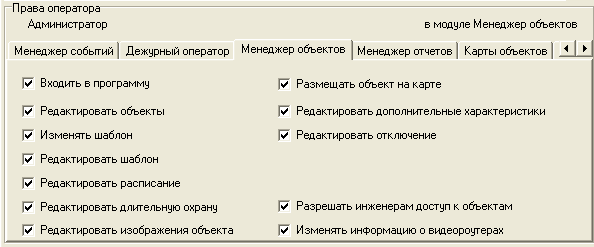
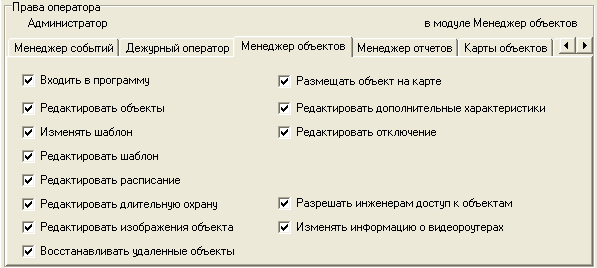
добавлена глава "Восстановление удаленного объекта" в разделе "Менеджер объектов", добавлено описание права "Восстанавливать удаленные объекты" в разделе "Менеджер персонала"

Changed region(s): [[0.0, 0.0, 1.0, 1.0], [0.4545, 0.2834, 0.9394, 0.5668], [0.4545, 0.7368, 0.8788, 0.8785]]

diff --git a/russian/05-object-manager.md b/russian/05-object-manager.md
@@ -66,6 +66,30 @@
 
 ![Список объектов: результат фильтрации сравнением «похоже на %%ик%%»][id-05-03-04]
 
+## Восстановление удаленного объекта
+
+Посмотреть карточку удаленного объекта «Центра охраны» или сформировать отчет по событиям на удаленном объекте можно, воспользовавшись функцией восстановления удаленного объекта. 
+
+Для восстановления удаленного объекта оператор «Центра охраны», наделенный соответствующим правом, должен выбрать «Восстановить удаленный объект…» пункта «Объект», представленного в меню модуля «Менеджер объектов».
+
+![ Восстановление удаленного объекта][id-05-20]
+
+В открывшемся при этом окне «Выберите объект для восстановления» отображаются удаленные ранее объекты. Для каждого из них в соответствующих полях указаны номер объекта (на момент первого удаления объекта), название и адрес объекта, номер договора, а также дата и время удаления объекта. Необходимый для восстановления объект удобно искать по данным параметрам при помощи сортировки и фильтрации объектов по заданному признаку. 
+
+![ Выбор удаленного объекта для восстановления][id-05-21]
+
+Для восстановления следует выделить объект в окне «Выберите объект для восстановления» и нажать кнопку «OK». После этого объект будет восстановлен и отобразится в списке объектов главного окна модуля.
+
+При этом номер восстанавливаемого объекта изменяется, если он совпадает с номером уже существующего объекта или раздела. Изменение номера достигается добавлением к нему определенных символов (от «A» до «F»): например, объекту под номером «314» присваивается номер «A314». Таким же образом изменяется номер какого-либо из разделов восстанавливаемого объекта, если он совпадает с номером уже существующего объекта или раздела. Номер восстановленного объекта и номера его разделов сообщаются в окне, автоматически открывающемся сразу после восстановления объекта.
+
+![ Информация о номере восстановленного объекта и его разделов][id-05-22]
+
+Необходимо заметить, что для компьютера, на котором выполняется восстановление объекта, может быть установлено ограничение на доступные номера объектов. Если номер восстанавливаемого объекта выходит за границы данного ограничения, объект будет восстановлен, однако появится сообщение, информирующее пользователя о необходимости изменить номер объекта или откорректировать ограничение на доступные номера объектов.
+
+Для объекта не восстанавливаются такие параметры, как идентификатор передатчика ТР-100 GSM III, идентификатор и ключ шифрации прибора «Юпитер». Также для восстанавливаемого объекта удаляется администратор объекта в личном кабинете и аннулируются подписки на классы событий и действия оператора, до удаления объекта доступные в личном кабинете и в приложении MyAlarm.  Кроме того, для восстанавливаемого объекта отменяются разрешения, выданные инженерам для удаленного доступа к данному объекту.
+
+Важно помнить, что необходимым условием для восстановления объекта является возможность добавить объект в базу данных «Центра охраны» в соответствии с имеющимися лицензионными ограничениями. Если в базе данных создано максимально возможное количество объектов, выводится сообщение об ошибке и процедура восстановления объекта прекращается.
+
 ## Вкладка «Объект»
 
 На вкладке «Объект» можно указать основную описательную информацию об объекте: номер, название, адрес, телефоны и так далее. 
@@ -514,3 +538,6 @@
 [id-05-17]: img/ObjMngr-17-VideoRouters.png "Вкладка «Видеороутеры»"
 [id-05-18]: img/ObjMngr-18-Support.png "Вкладка «Обслуживание»"
 [id-05-19]: img/ObjMngr-18-Support-01.png "Окно «Выдача разрешения на доступ к объекту»"
+[id-05-20]: img/ObjMngr-20-ObjectRecovery.png "Восстановление удаленного объекта"
+[id-05-21]: img/ObjMngr-21-ObjectRecovery-01.png "Выбор удаленного объекта для восстановления"
+[id-05-22]: img/ObjMngr-22-ObjectRecovery-02.png "Информация о номере восстановленного объекта и его разделов"

diff --git a/russian/07-personnel-manager.md b/russian/07-personnel-manager.md
@@ -64,6 +64,8 @@
 
 * «Редактировать изображения объекта» - разрешение на изменение изображений объекта. Данные изображения используются в приложении "Тревога в ГБР" для предоставления более полной информации об объекте.
 
+* «Восстанавливать удаленные объекты» - разрешение на восстановление удаленных объектов.
+
 * «Размещать объект на карте» - разрешение на изменение местоположения объекта на карте.
 
 * «Редактировать дополнительные характеристики» — разрешение на изменение значений дополнительных характеристик объекта. В дополнительных характеристиках объекта может храниться важная информация.
